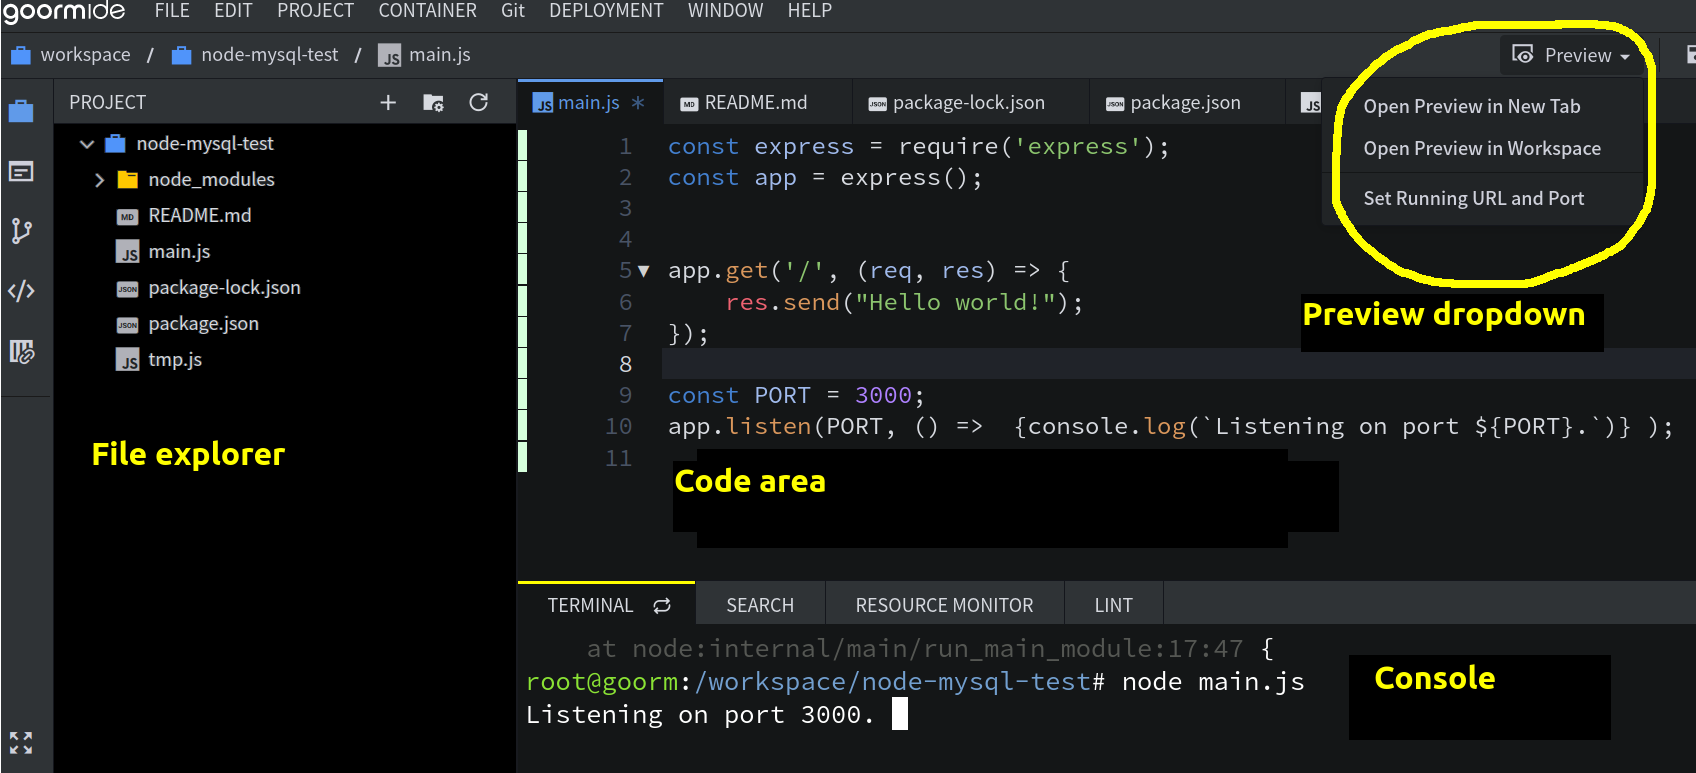
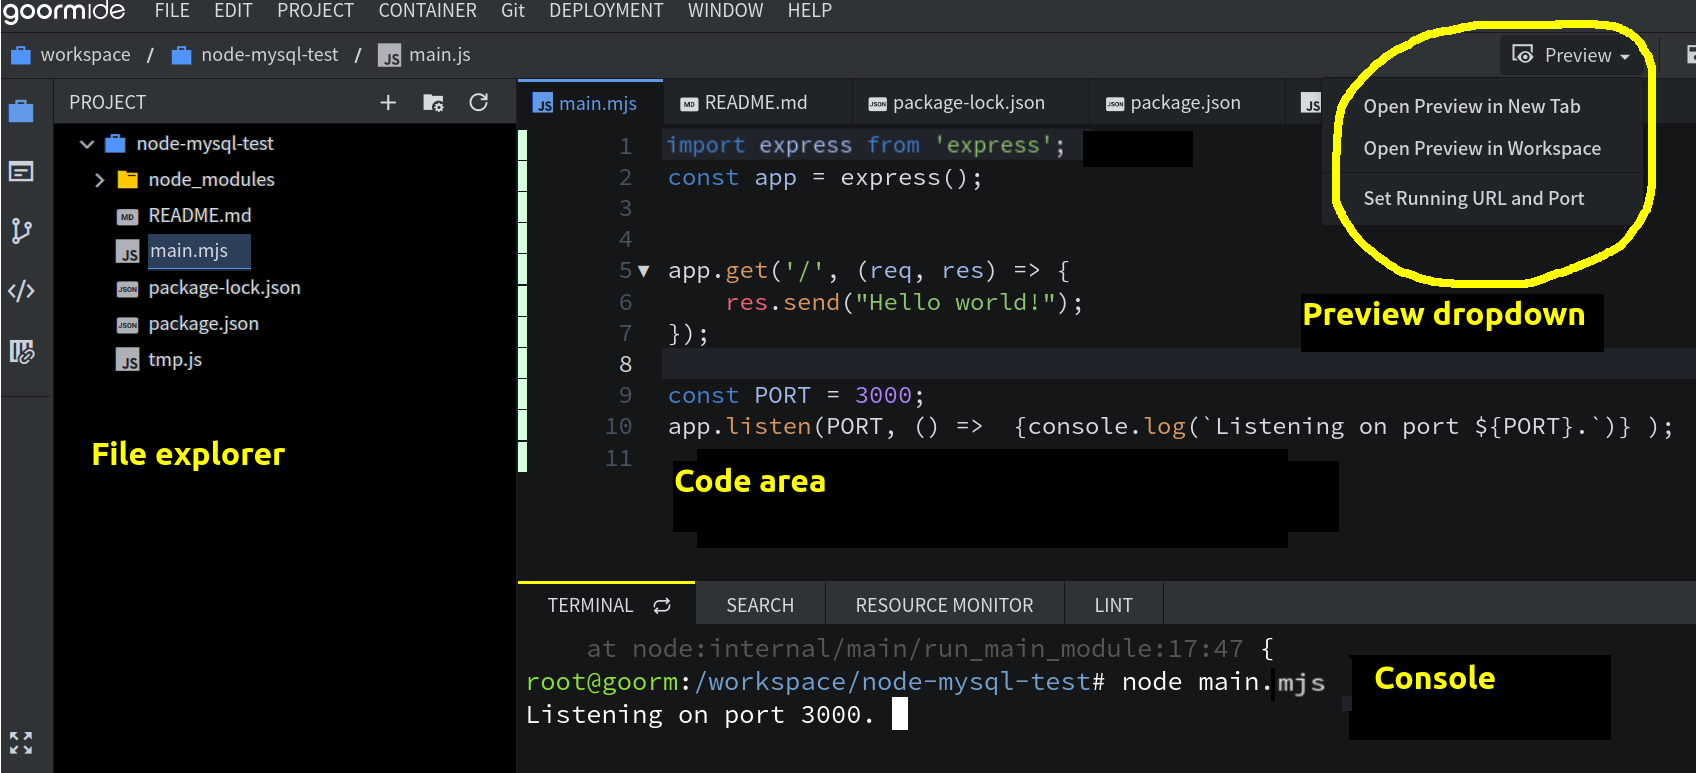
Goorm screenshot update

diff --git a/COM518/topic1.html b/COM518/topic1.html
@@ -114,7 +114,7 @@ On Linux and other Unix-based systems, this requires 'sudo' rights (admin privil
 <h3>Hello World with Express</h3>
 <p>The example below is the Hello World with Express. Note that there are two ways of including third-party modules such as Express: <strong>CommonJS modules</strong> and <strong>ECMAScript 6 modules</strong>. The latter is the currently-recommended approach and is a standard part of recent JavaScript. The difference when coding is that you use <code>require()</code> with CommonJS modules, but <code>import</code> with ECMAScript 6 modules. <strong>Note that if you use ECMAScript 6 modules in Node.js, you must save the file with a .mjs extension, not .js.</strong>.
 <pre>
-// index.mjs - use .mjs extension as ECMAScript 6 modules are used
+// app.mjs - use .mjs extension as ECMAScript 6 modules are used
 
 import express from 'express';
 const app = express();
